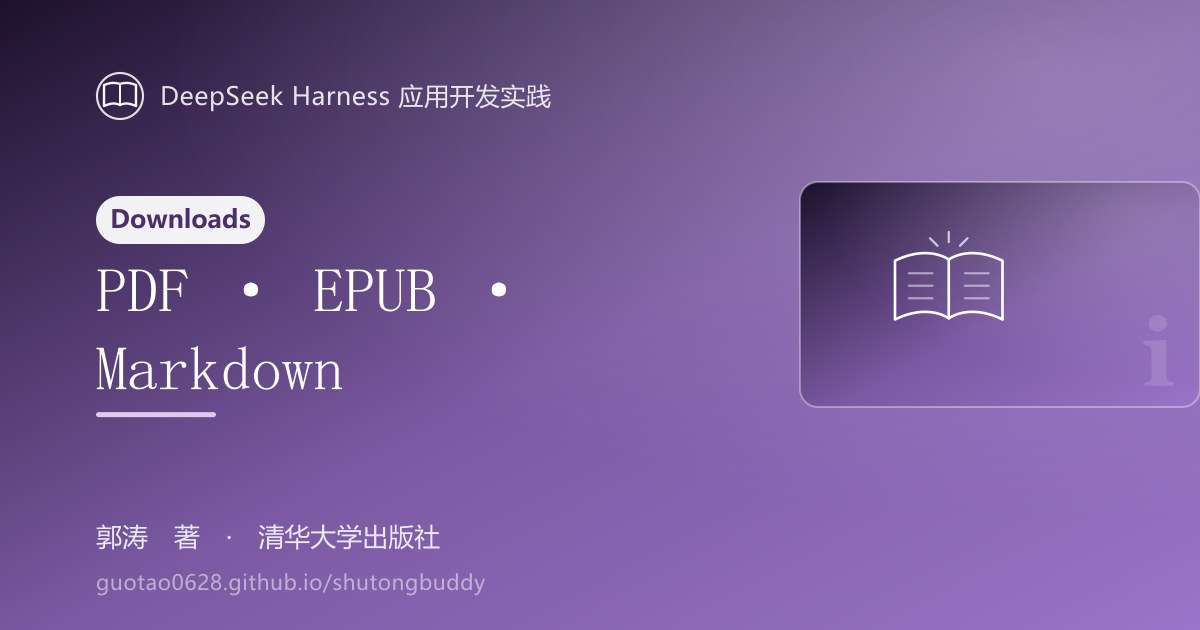
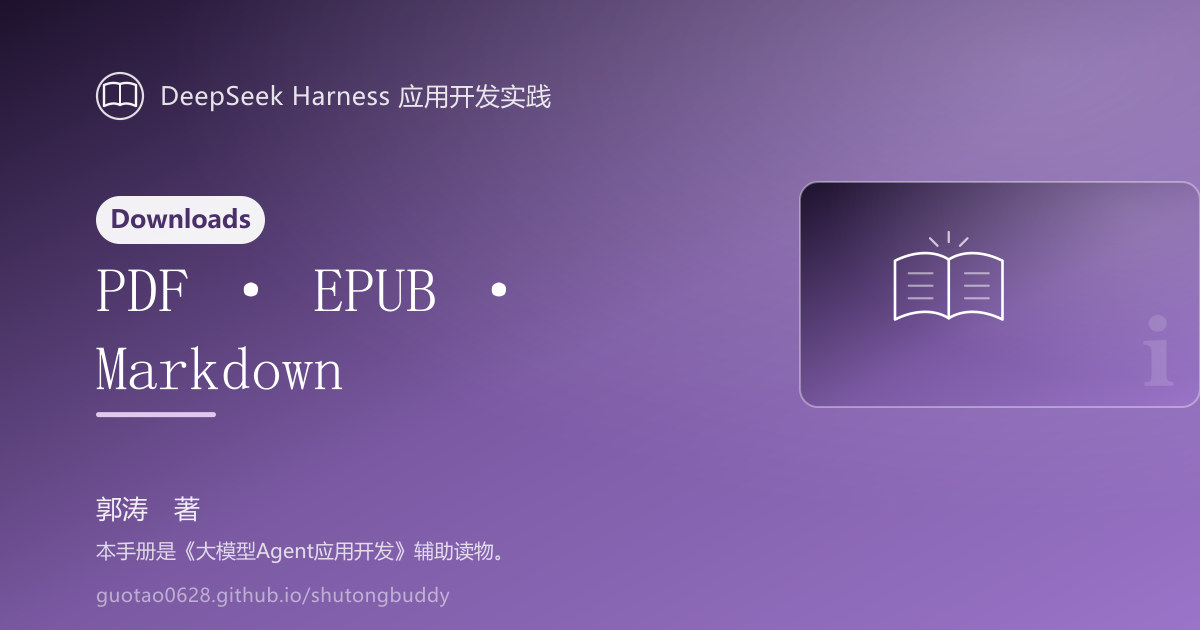
feat: 按定位声明改写出版方表述，主书加官方链接
本手册不是清华大学出版社的出版物，而是《大模型Agent应用开发》的辅助读物。
因此全站移除「清华大学出版社」作为本书出版方的表述，统一改为声明：
「本手册是《大模型Agent应用开发》辅助读物。」
其中《大模型Agent应用开发》在 Markdown/MDX 场景一律带官方链接
https://www.tup.tsinghua.edu.cn/booksCenter/book_10674101.html

改动
- src/consts.ts 新增 COMPANION（主书名 / 链接 / 声明文案）与 COMPANION_LINK，
  移除 BOOK.press；下载说明里的「仿清华社版式」改为「A5 书版印刷版式」
- 封面（brief.md）：落款改为「郭涛　著」+ 声明行（书名带链接）
- 首页（中/英）：CTA 下方新增 .stb-companion 声明块；hero tagline 去掉出版社；
  description 追加声明
- Head.astro：移除 book:publisher 元信息，改为 <link rel="related"> 指向主书
- astro.config.mjs / README（中英）：同样改写
- 分享卡片与 og.png：落款改为「郭涛　著」+ 声明原文（位图放不了链接）
- 自序（中/英）：致谢对象由出版社改为《大模型Agent应用开发》编辑团队
- 出书脚本（book_tools）：PRESS 改为声明，版权页「出版发行」改为「定位说明」
- docs/publishing-checklist.md：封面/版权页两行改按辅助读物口径；顺带修正
  两条因 mdBook→Astro 迁移而过期的源文件路径

修复
- .stb-companion 最初写成 <p>，MDX 在内部又包了一层 <p>，非法嵌套被浏览器拆掉
  导致整块变空；改为 <div> 并在 CSS 里清掉内层 p 的外边距

测试 80 → 85：新增 5 条锁住该约定（声明与链接存在、英文页、页面不再出现
旧表述、related 元信息）
另：为 build 紧邻运行时的偶发超时加了保险（页面就绪等待 15s→30s、本地也允许 1 次重试）

Changed region(s): [[0.0617, 0.7841, 0.4317, 0.9651]]

diff --git a/tests/e2e.spec.ts b/tests/e2e.spec.ts
@@ -6,7 +6,7 @@ const BASE = process.env.BASE_PATH || '/shutongbuddy/';
 /** 打开页面并等待交互脚本执行完 */
 async function open(page: Page, path: string) {
   await page.goto(BASE + path.replace(/^\//, ''), { waitUntil: 'load' });
-  await page.waitForSelector('.reading-progress', { state: 'attached', timeout: 15_000 });
+  await page.waitForSelector('.reading-progress', { state: 'attached', timeout: 30_000 });
 }
 
 test.describe('封面与导航', () => {
@@ -466,5 +466,50 @@ test.describe('配色切换（中国传统色）', () => {
       );
     });
     expect(legacy).toEqual(['', '', '']);
+  });
+});
+
+test.describe('定位声明（配套读物）', () => {
+  const MAIN_BOOK = 'https://www.tup.tsinghua.edu.cn/booksCenter/book_10674101.html';
+
+  test('首页展示声明块，书名带主书链接', async ({ page }) => {
+    await open(page, '/');
+    const box = page.locator('.stb-companion');
+    await expect(box).toHaveCount(1);
+    await expect(box).toContainText('辅助读物');
+    await expect(box.locator(`a[href="${MAIN_BOOK}"]`)).toHaveCount(1);
+    await expect(box.locator('a')).toContainText('大模型Agent应用开发');
+  });
+
+  test('内容简介页（Markdown 正文）同样带声明与主书链接', async ({ page }) => {
+    await open(page, '/brief/');
+    const body = page.locator('.sl-markdown-content');
+    await expect(body).toContainText('辅助读物');
+    const link = body.locator(`a[href="${MAIN_BOOK}"]`);
+    await expect(link).toHaveCount(1);
+    await expect(link).toContainText('大模型Agent应用开发');
+  });
+
+  test('英文页用英文声明，链接指向同一主书', async ({ page }) => {
+    await page.goto(BASE + 'en/', { waitUntil: 'load' });
+    const box = page.locator('.stb-companion');
+    await expect(box).toHaveCount(1);
+    await expect(box.locator(`a[href="${MAIN_BOOK}"]`)).toHaveCount(1);
+    await expect(box).toContainText('companion reader');
+  });
+
+  test('页面里不再把清华大学出版社写成本书出版方', async ({ page }) => {
+    for (const p of ['/', '/brief/', '/author/']) {
+      await open(page, p);
+      const html = await page.content();
+      expect(html, p).not.toContain('郭涛 著，清华大学出版社');
+      expect(html, p).not.toContain('郭涛　著 · 清华大学出版社');
+      expect(html, p).not.toContain('book:publisher');
+    }
+  });
+
+  test('主书链接已作为 related 元信息声明', async ({ page }) => {
+    await open(page, '/');
+    await expect(page.locator(`link[rel="related"][href="${MAIN_BOOK}"]`)).toHaveCount(1);
   });
 });

diff --git a/src/consts.ts b/src/consts.ts
@@ -1,13 +1,29 @@
 import version from './data/version.json';
 
-/** 图书与仓库的全局常量 */
+/**
+ * 图书与仓库的全局常量。
+ *
+ * 注意：本手册不是清华大学出版社的出版物，而是《大模型Agent应用开发》的辅助读物。
+ * 因此全站不得再出现「清华大学出版社」作为本书出版方的表述，
+ * 统一改为 COMPANION.statement。
+ */
 export const BOOK = {
   title: 'DeepSeek Harness 应用开发实践',
   subtitle: '基于 DeepSeek Harness 的智能体应用开发实战手册',
   author: '郭涛',
-  press: '清华大学出版社',
   email: 'guotao3s@163.com',
 } as const;
+
+/** 本手册的定位：配套读物 + 主书链接与声明文案 */
+export const COMPANION = {
+  title: '大模型Agent应用开发',
+  url: 'https://www.tup.tsinghua.edu.cn/booksCenter/book_10674101.html',
+  /** 纯文本场景（分享卡片、PDF/DOCX 封面、meta 描述）用这句 */
+  statement: '本手册是《大模型Agent应用开发》辅助读物。',
+} as const;
+
+/** 声明文案里的书名部分，供 Markdown/MDX 做超链接时复用 */
+export const COMPANION_LINK = `[《${COMPANION.title}》](${COMPANION.url})`;
 
 export const REPO = {
   owner: process.env.GITHUB_REPOSITORY_OWNER ?? 'guotao0628',
@@ -29,7 +45,7 @@ export const DOWNLOADS = [
   {
     name: 'PDF（A5 印刷版式）',
     file: 'downloads/deepseek-harness-in-practice.pdf',
-    note: '仿清华社版式，A5 / 宋体 9.5pt，含页码目录，适合打印',
+    note: 'A5 书版印刷版式，宋体 9.5pt，含页码目录，适合打印',
   },
   {
     name: 'EPUB（电子书）',

diff --git a/src/styles/book-widgets.css b/src/styles/book-widgets.css
@@ -990,3 +990,26 @@ kbd {
     gap: 6px;
   }
 }
+
+/* ---------- 定位声明（配套读物） ---------- */
+.stb-companion {
+  margin: -0.5rem 0 1.75rem;
+  padding: 0.7rem 1rem;
+  border-inline-start: 3px solid var(--sl-color-accent);
+  border-radius: 0 8px 8px 0;
+  background: color-mix(in srgb, var(--sl-color-accent) 7%, transparent);
+  font-size: 0.88rem;
+  color: var(--sl-color-gray-2);
+}
+
+.stb-companion a {
+  color: var(--sl-color-text-accent);
+  font-weight: 700;
+  text-decoration: none;
+  border-bottom: 1px solid currentColor;
+}
+
+.stb-companion > p {
+  margin: 0;
+}
+

diff --git a/playwright.config.ts b/playwright.config.ts
@@ -17,7 +17,8 @@ export default defineConfig({
   expect: { timeout: 10_000 },
   fullyParallel: true,
   forbidOnly: !!process.env.CI,
-  retries: process.env.CI ? 1 : 0,
+  // 浏览器用例在 build 紧邻运行时偶发超时，本地也给一次重试（不是掩盖失败：稳定失败仍会失败）
+  retries: 1,
   workers: process.env.CI ? 2 : undefined,
   reporter: process.env.CI ? [['list'], ['html', { open: 'never' }]] : [['list']],
   use: {

diff --git a/tests/responsive.spec.ts b/tests/responsive.spec.ts
@@ -5,7 +5,7 @@ const BASE = process.env.BASE_PATH || '/shutongbuddy/';
 
 async function open(page: Page, path: string) {
   await page.goto(BASE + path.replace(/^\//, ''), { waitUntil: 'load' });
-  await page.waitForSelector('.reading-progress', { state: 'attached', timeout: 15_000 });
+  await page.waitForSelector('.reading-progress', { state: 'attached', timeout: 30_000 });
 }
 
 test.describe('响应式：无横向溢出', () => {

diff --git a/docs/publishing-checklist.md b/docs/publishing-checklist.md
@@ -3,11 +3,11 @@
 ## 一、待核对的技术细节（书中【待核】标记，共 2 处）
 
 ### 1. `output.schema` 的 `additionalProperties` 写法
-- **位置**：第 7 章 7.6 节（`docs/manual/markdown/09-part4-ch7.md`）
+- **位置**：第 7 章 7.6 节（`src/content/docs/part4/ch7.md`）
 - **内容**：`material_stats` 工具的 `output.schema` 用了 `additionalProperties`，需对照所用 DeepSeek Harness 版本的 `ValueSchemaSpec` 确认是否接受；若不被接受，改为返回数组 `[{ type, files, bytes }]`。
 
 ### 2. sdk Profile 下多提供商的会话级指定方式
-- **位置**：第 8 章 8.3 节（`docs/manual/markdown/10-part4-ch8.md`）
+- **位置**：第 8 章 8.3 节（`src/content/docs/part4/ch8.md`）
 - **内容**：sdk Profile 下多提供商（如 Kimi）的会话级模型指定方式，需对照所用 SDK 版本参考；备选方案是为 Kimi 单独起一个 dsh 实例，通过子智能体 ACP 委托（见 8.7 节）。
 
 ## 二、需作者确认的出版信息
@@ -15,8 +15,8 @@
 | 事项 | 现状 | 需确认 |
 |------|------|--------|
 | 作者简介书目 | ✅ 已更新（《大模型设计模式》《Agentic AI 智能体应用开发（第 2 版）》《大模型前沿与实践》） | 已完成 |
-| 封面 | 脚本生成的简化封面（书名 + 郭涛 著 + 清华大学出版社） | 正式封面需清华社排版（含书号、CIP、定价、条形码、防伪标签） |
-| 版权页 | 简化版（版权所有 + 书名 + 作者 + 出版社） | 补书号、CIP、版次、印次 |
+| 封面 | 脚本生成的简化封面（书名 + 郭涛 著 + 配套读物声明） | 本手册是《大模型Agent应用开发》辅助读物，不单独申请 ISBN/CIP；如需独立正式封面再另议 |
+| 版权页 | 简化版（版权所有 + 书名 + 作者 + 配套读物声明） | 补版次、印次；不涉及书号与 CIP |
 
 ## 三、建议出版前完成的校对
 

diff --git a/src/content/docs/en/preface.md b/src/content/docs/en/preface.md
@@ -7,7 +7,7 @@ Picture a first-year student facing a brand-new course: textbooks, lecture notes
 
 This book grew out of a more general question: **how do you turn an idea into a working agent application using a substrate like DeepSeek Harness?** Throughout, building comes first — get the harness running, wire up a model, write a plugin, then build the agent. The running example, the exam-prep assistant ShuTongBuddy, is the natural product of that path: it starts as one plugin package and grows into a complete web application.
 
-The material was compiled from the DeepSeek Harness repository's README, user guide, architecture documents and cookbook. The DeepSeek AI team open-sourced the project under the MIT licence, providing a solid technical foundation for this book — my sincere thanks. I also thank the editorial team at Tsinghua University Press for their professional support in refining the manuscript.
+The material was compiled from the DeepSeek Harness repository's README, user guide, architecture documents and cookbook. The DeepSeek AI team open-sourced the project under the MIT licence, providing a solid technical foundation for this book — my sincere thanks. I also thank the editorial team of *Large Model Agent Application Development* for their professional support in refining the manuscript.
 
 Because DeepSeek Harness is still in developer preview and iterates quickly, a few details should be checked against the official documentation; such passages are marked 【待核】 in the text. If you find mistakes, please let me know.
 

diff --git a/src/content/docs/preface.md b/src/content/docs/preface.md
@@ -7,7 +7,7 @@ description: "设想一位刚入学的大学生，面对一门全新的专业课
 
 本书的缘起，正是想回答一个更普遍的问题：**如何用 DeepSeek Harness 这样的智能体基座，把"想法"变成"能用的智能体应用"？** 在写作过程中，我始终把"动手做"放在第一位：先把 Harness 跑起来，再把模型接进去，接着把插件写出来，最后把智能体做出来。全书的贯穿案例——大学生备考助手 ShuTongBuddy——正是这条路径的自然产物：它从一个插件包出发，最终长成一个完整的 Web 应用。
 
-本书的内容整理自 DeepSeek Harness 官方仓库的 README、用户指南、架构文档与 Cookbook。DeepSeek AI 团队以 MIT 协议开源了这一项目，为本书提供了坚实的技术底座，在此致以诚挚的谢意。同时感谢清华大学出版社的编辑团队在书稿打磨中给予的专业支持。
+本书的内容整理自 DeepSeek Harness 官方仓库的 README、用户指南、架构文档与 Cookbook。DeepSeek AI 团队以 MIT 协议开源了这一项目，为本书提供了坚实的技术底座，在此致以诚挚的谢意。同时感谢《大模型Agent应用开发》编辑团队在书稿打磨中给予的专业支持。
 
 由于 DeepSeek Harness 仍处于开发者预览阶段，迭代迅速，个别细节以官方文档为准，书中已用"【待核】"标出。若书中存在疏漏，恳请读者指正。
 

diff --git a/README.en.md b/README.en.md
@@ -16,7 +16,8 @@ An open-source practical handbook and companion codebase for building agent appl
 ## About the Book
 
 - Title: *DeepSeek Harness 应用开发实践* (DeepSeek Harness in Practice)
-- Author: 郭涛 (Guo Tao) ｜ Publisher: 清华大学出版社 (Tsinghua University Press)
+- Author: 郭涛 (Guo Tao)
+- Scope: a companion reader to [*Large Model Agent Application Development*](https://www.tup.tsinghua.edu.cn/booksCenter/book_10674101.html) (《大模型Agent应用开发》, Tsinghua University Press)
 - Structure: front matter + 4 parts (8 chapters) + epilogue + appendices A–F
 - Running case: **ShuTongBuddy**, integrated into **ShuTongBuddy Studio** (a web-based exam-prep assistant)
 - Companion code: `plugins/shu-tong-buddy/`, `examples/`, `agents/`

diff --git a/README.md b/README.md
@@ -17,7 +17,8 @@
 ## 关于本书
 
 - 书名：《DeepSeek Harness 应用开发实践》
-- 作者：郭涛　｜　出版：清华大学出版社
+- 作者：郭涛
+- 定位：本手册是[《大模型Agent应用开发》](https://www.tup.tsinghua.edu.cn/booksCenter/book_10674101.html)辅助读物
 - 结构：前置页 + 四部分（8 章）+ 结束语 + 附录 A–F
 - 贯穿案例：**ShuTongBuddy（书童）大学生备考助手**，第 8 章集成为 **ShuTongBuddy Studio**（Web 备考助手）
 - 配套代码：`plugins/shu-tong-buddy/`（插件包）、`examples/`（示例工程）、`agents/`（多智能体）

diff --git a/src/content/docs/brief.md b/src/content/docs/brief.md
@@ -3,9 +3,11 @@ title: "本书内容简介"
 description: "DeepSeek Harness（命令行简称 dsh）是 DeepSeek 官方开源的智能体基座，其核心设计哲学只有一句话——万物皆插件：模型适配、工具调用、会话管理，乃至驱动智能体运转的 Agent 循环本身，都是可以……"
 ---
 
-**郭涛　著 · 清华大学出版社**
+**郭涛　著**
 
 > 基于 DeepSeek Harness 的智能体应用开发实战手册
+
+本手册是[《大模型Agent应用开发》](https://www.tup.tsinghua.edu.cn/booksCenter/book_10674101.html)辅助读物。
 
 ---
 
